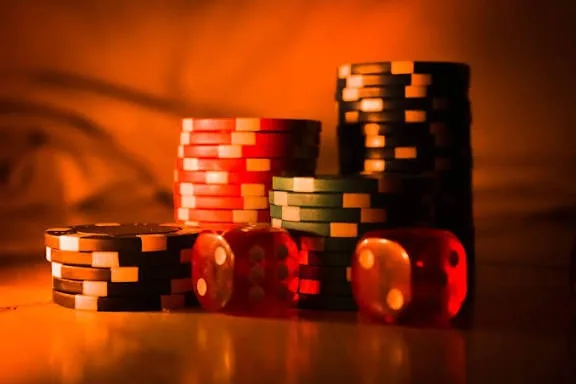
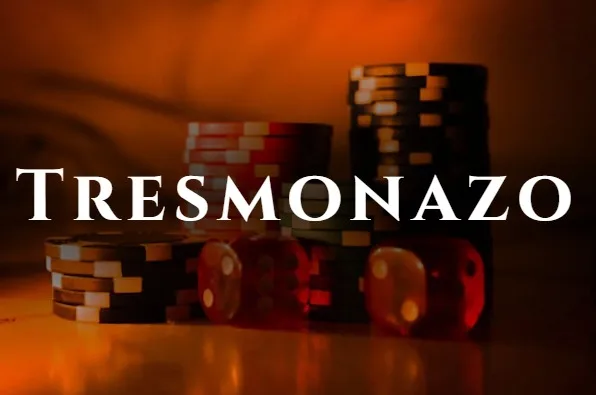
Remove google_fonts dependency and simplify game card widget structure
- Deleted the google_fonts dependency from pubspec.yaml for cleaner project management.
- Refactored game_card.dart to streamline the widget structure by removing unnecessary overlay and label components, enhancing performance and maintainability.
- Updated image handling to directly use asset paths without additional styling, improving rendering efficiency.

diff --git a/lib/features/games/presentation/widgets/game_card.dart b/lib/features/games/presentation/widgets/game_card.dart
@@ -1,5 +1,4 @@
 import 'package:flutter/material.dart';
-import 'package:google_fonts/google_fonts.dart';
 
 import '../../domain/entities/game.dart';
 
@@ -83,95 +82,10 @@ class _Content extends StatelessWidget {
 
   @override
   Widget build(BuildContext context) {
-    final assetPath = 'assets/images/games/${game.slug}.webp';
-    return Stack(
-      fit: StackFit.expand,
-      children: [
-        Image.asset(
-          assetPath,
-          fit: BoxFit.cover,
-          errorBuilder: (context, error, stack) => _Fallback(game: game),
-        ),
-        const _VignetteOverlay(),
-        _GameLabel(name: game.name),
-      ],
-    );
-  }
-}
-
-class _VignetteOverlay extends StatelessWidget {
-  const _VignetteOverlay();
-
-  @override
-  Widget build(BuildContext context) {
-    return LayoutBuilder(
-      builder: (context, constraints) {
-        return CustomPaint(
-          size: Size(constraints.maxWidth, constraints.maxHeight),
-          painter: const _VignettePainter(),
-        );
-      },
-    );
-  }
-}
-
-class _VignettePainter extends CustomPainter {
-  const _VignettePainter();
-
-  @override
-  void paint(Canvas canvas, Size size) {
-    final rect = Offset.zero & size;
-    final paint = Paint()
-      ..shader = const LinearGradient(
-        begin: Alignment.topCenter,
-        end: Alignment.bottomCenter,
-        colors: [
-          Color(0x99000000),
-          Color(0x00000000),
-          Color(0x00000000),
-          Color(0x99000000),
-        ],
-        stops: [0.0, 0.38, 0.62, 1.0],
-      ).createShader(rect);
-    canvas.drawRect(rect, paint);
-  }
-
-  @override
-  bool shouldRepaint(_VignettePainter old) => false;
-}
-
-class _GameLabel extends StatelessWidget {
-  const _GameLabel({required this.name});
-
-  final String name;
-
-  @override
-  Widget build(BuildContext context) {
-    return IgnorePointer(
-      child: Center(
-        child: Padding(
-          padding: const EdgeInsets.symmetric(horizontal: 8),
-          child: Text(
-            name.toUpperCase(),
-            textAlign: TextAlign.center,
-            maxLines: 2,
-            overflow: TextOverflow.ellipsis,
-            style: GoogleFonts.cinzel(
-              color: Colors.white,
-              fontSize: 16,
-              fontWeight: FontWeight.w700,
-              letterSpacing: 1.2,
-              shadows: [
-                Shadow(
-                  color: Colors.black.withValues(alpha: 0.6),
-                  blurRadius: 6,
-                  offset: const Offset(0, 1),
-                ),
-              ],
-            ),
-          ),
-        ),
-      ),
+    return Image.asset(
+      'assets/images/games/${game.slug}.webp',
+      fit: BoxFit.cover,
+      errorBuilder: (context, error, stack) => _Fallback(game: game),
     );
   }
 }
@@ -216,7 +130,7 @@ class _Fallback extends StatelessWidget {
             textAlign: TextAlign.center,
             maxLines: 2,
             overflow: TextOverflow.ellipsis,
-            style: GoogleFonts.cinzel(
+            style: const TextStyle(
               color: Colors.white,
               fontSize: 16,
               fontWeight: FontWeight.w700,
